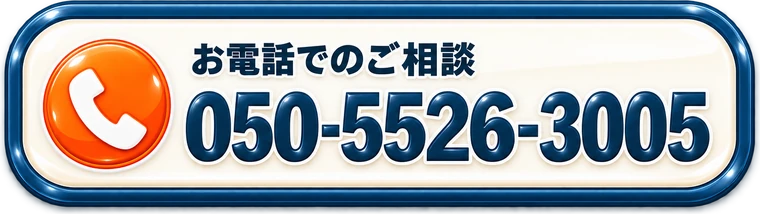
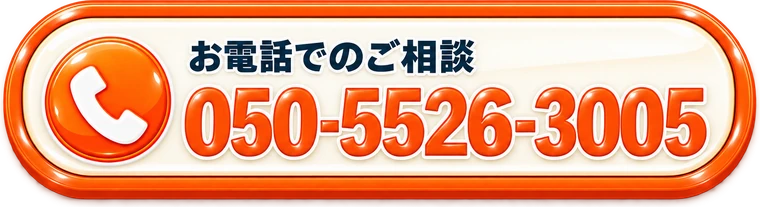
FVの電話ボタンをオレンジ枠・オレンジ数字に変更し、見積りボタンと角丸・サイズをそろえた

diff --git a/assets/css/app.css b/assets/css/app.css
@@ -3640,10 +3640,6 @@ body.admin-bar .site-header {
     width: 124px;
   }
 
-  .sm\:w-\[292px\] {
-    width: 292px;
-  }
-
   .sm\:w-\[300px\] {
     width: 300px;
   }
@@ -4188,12 +4184,8 @@ body.admin-bar .site-header {
     width: 150px;
   }
 
-  .xl\:w-\[320px\] {
-    width: 320px;
-  }
-
-  .xl\:w-\[330px\] {
-    width: 330px;
+  .xl\:w-\[325px\] {
+    width: 325px;
   }
 
   .xl\:w-\[760px\] {

diff --git a/front-page.php b/front-page.php
@@ -74,18 +74,18 @@ $fv_badges        = array(
 			<?php // ボタン画像は文字入り（電話番号を変えたら assets/images/top/cta/cta-tel.webp も作り直す） ?>
 			<div class="ml-auto mt-7 flex w-full max-w-[360px] flex-col gap-3 sm:max-w-none sm:flex-row sm:justify-end lg:mt-8">
 				<?php if ( $fv_show_phone ) : ?>
-					<a class="block no-underline transition duration-200 hover:-translate-y-0.5 hover:brightness-105 active:translate-y-px sm:w-[300px] xl:w-[330px]" href="<?php echo esc_url( 'tel:' . $fv_phone_tel ); ?>">
+					<a class="block no-underline transition duration-200 hover:-translate-y-0.5 hover:brightness-105 active:translate-y-px sm:w-[300px] xl:w-[325px]" href="<?php echo esc_url( 'tel:' . $fv_phone_tel ); ?>">
 						<img
 							class="block h-auto w-full"
 							src="<?php echo esc_url( get_template_directory_uri() . '/assets/images/top/cta/cta-tel.webp' ); ?>"
 							width="760"
-							height="214"
+							height="207"
 							alt="<?php echo esc_attr( sprintf( __( 'お電話でのご相談 %s', 'gd-aircon-repair' ), $fv_phone_display ) ); ?>"
 							decoding="async"
 						>
 					</a>
 				<?php endif; ?>
-				<a class="block no-underline transition duration-200 hover:-translate-y-0.5 hover:brightness-105 active:translate-y-px sm:w-[292px] xl:w-[320px]" href="#top-quote">
+				<a class="block no-underline transition duration-200 hover:-translate-y-0.5 hover:brightness-105 active:translate-y-px sm:w-[300px] xl:w-[325px]" href="#top-quote">
 					<img
 						class="block h-auto w-full"
 						src="<?php echo esc_url( get_template_directory_uri() . '/assets/images/top/cta/cta-web.webp' ); ?>"
